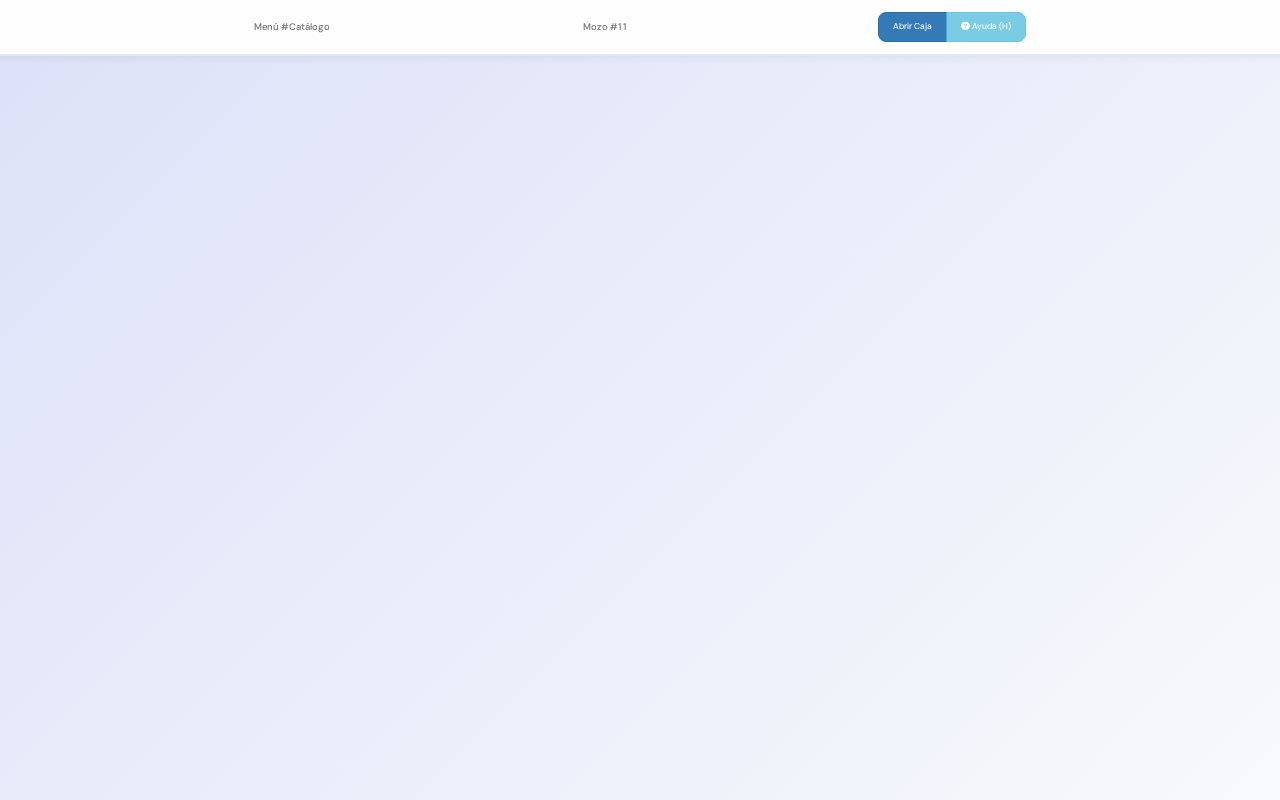
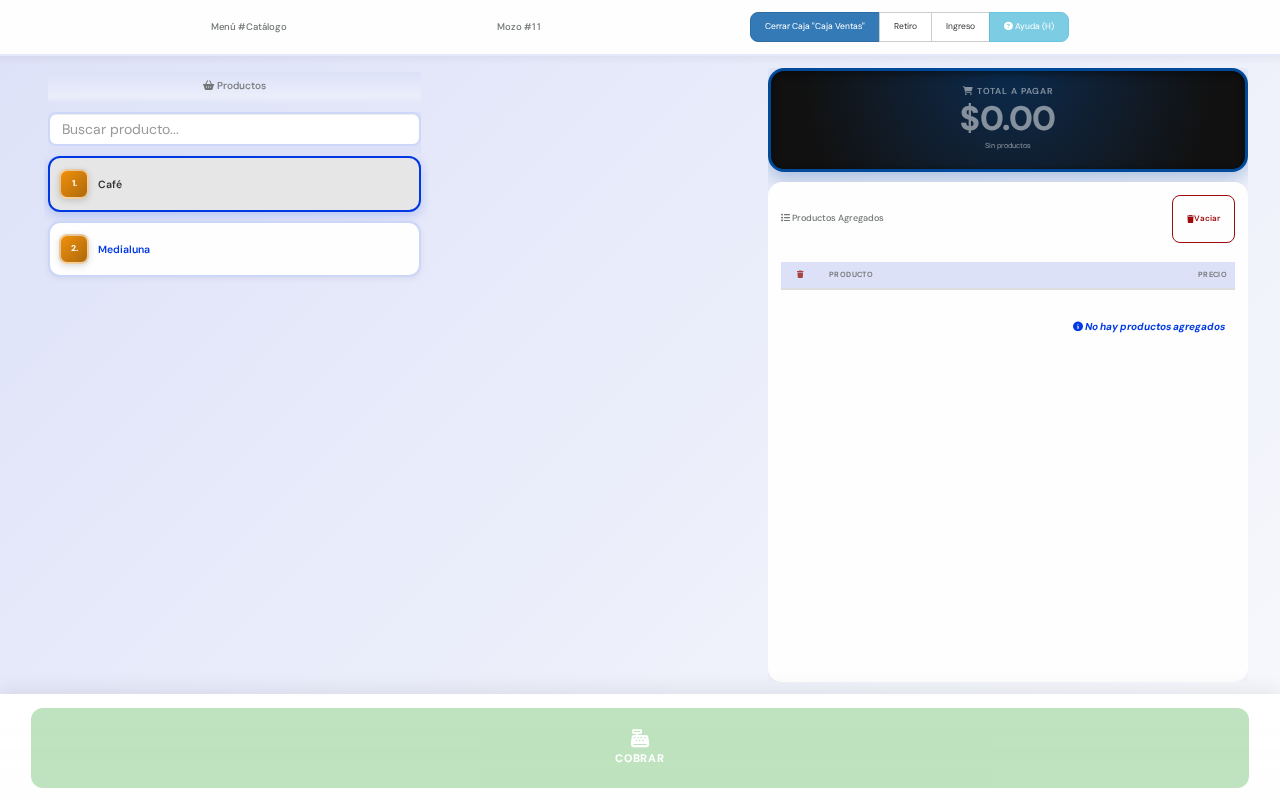
docs(manual): capturas por botón en 22 Cómo Usar la Caja Rápida (Registradora)
Capturas generadas contra dev2 (tenant prueba) con la receta 22: menú lateral,
botones de la caja (solo foto en Cerrar Caja), producto, teclado de importe,
lista, cobro (el medio de pago es solo foto) y formulario de apertura de caja.
El artículo se reescribe paso a paso. Corrige que el producto se quita con la
✕ (no con una papelera) y suma la corrección del precio.

Refs #145

diff --git a/src/routes/user-guide/Manual-Usuario/20-Ventas/22-Caja-Rapida.md b/src/routes/user-guide/Manual-Usuario/20-Ventas/22-Caja-Rapida.md
@@ -2,71 +2,207 @@
 
 <div id="caja-rapida-registradora"></div>
 
+> **¿Dónde está en el sistema?:** Menú principal → **Ventas** → **Caja Rápida**  
+> **¿Quién lo usa?:** Cajeros y personal de mostrador
+
 > 🎯 **¿Para qué sirve esto?**
-> La Caja Rápida es una pantalla tipo registradora pensada para la venta inmediata en mostrador, sin asignación de mesas. Ideal para negocios de paso rápido, take-away o kioscos donde necesitás cobrar al instante.
+> La Caja Rápida funciona como una registradora. Sirve para vender en el mostrador sin abrir una mesa. Es ideal para take-away, kioscos o cafeterías de paso.
 
 ---
 
-## 📍 **Paso 1: Accedé a la Caja Rápida**
+## 📍 **Paso 1: Entrá a la Caja Rápida**
 
-<div id="paso-1-accede-a-la-caja-rapida"></div>
+<div id="paso-1-entra-a-la-caja-rapida"></div>
 
-1. Desde el menú principal, tocá **Ventas** → **Caja Rápida**.
-2. El sistema abrirá la pantalla de registradora con el catálogo de productos.
+![Grupo Ventas del menú lateral](images/manual/20-ventas/22-00a-menu-grupo-ventas.png)
 
-![Pantalla principal de la Caja Rápida con el catálogo de productos y los botones de acción](images/manual/20-ventas/05-registradora-inicio.png)
+1. En el menú de la izquierda, tocá **Ventas**. Se despliegan sus opciones.
+
+![Opción Caja Rápida dentro del grupo Ventas](images/manual/20-ventas/22-00b-menu-opcion-registradora.png)
+
+2. Tocá **Caja Rápida**.
+3. Se abre la pantalla de la registradora.
+
+![Pantalla de la Caja Rápida con los productos a la izquierda y el total a la derecha](images/manual/20-ventas/05-registradora-inicio.png)
 
 En esta pantalla vas a ver:
-- Arriba: el nombre del **Menú** activo (ej: "Menú #Catálogo") y el **Mozo** asignado.
-- El botón **"Abrir Caja"** para iniciar el arqueo si no tenés uno abierto.
-- El botón **"Ayuda"** con notificaciones pendientes.
 
-> 💡 **Consejo útil:** Si la pantalla aparece vacía (sin botones de productos), verificá que el menú asignado a tu usuario tenga productos cargados en **Productos → Menúes**.
+- **Arriba:** el menú de precios que se usa (por ejemplo, *Menú #Catálogo*) y el mozo.
+- **Arriba a la derecha:** los botones de la caja y el botón **Ayuda (H)**.
+- **A la izquierda:** los productos para vender.
+- **A la derecha:** el total a pagar y la lista de lo que vas cargando.
+- **Abajo:** el botón verde **COBRAR**.
 
 ---
 
-## � **Paso 2: Abrí la caja antes de vender**
+## 💰 **Paso 2: Abrí la caja antes de vender**
 
 <div id="paso-2-abri-la-caja-antes-de-vender"></div>
 
-1. Tocá el botón **"Abrir Caja"** arriba a la derecha.
+> ⚠ **Atención:** Si la caja está cerrada, la pantalla **no muestra ningún producto**. Primero abrí la caja.
 
-![Botón Abrir Caja en el encabezado de la registradora](images/manual/20-ventas/33-registradora-boton-abrir-caja.png)
+![Botón Abrir Caja en la parte de arriba de la registradora](images/manual/20-ventas/33-registradora-boton-abrir-caja.png)
 
-2. Elegí la **Caja** a abrir (si tu comercio tiene más de una) y cargá el **Importe Inicial** en efectivo.
+1. Arriba a la derecha, tocá el botón **Abrir Caja**.
+2. Se abre una ventanita para abrir la caja.
 
-![Formulario de Nuevo Arqueo con la caja a abrir y el importe inicial](images/manual/20-ventas/34-registradora-dialogo-abrir-caja.png)
+![Ventanita Nuevo Arqueo con la caja y el importe inicial](images/manual/20-ventas/34-registradora-dialogo-abrir-caja.png)
 
-3. Tocá **"Abrir Arqueo"**. El catálogo de productos aparece recién después de este paso.
+![Casillero Caja para elegir qué caja abrir](images/manual/20-ventas/22-68-campo-caja-id.png)
 
-> ⚠ **Atención:** Mientras no haya un arqueo abierto, la registradora **no muestra ningún producto** — no es que falten productos cargados, es que toda la pantalla de venta queda oculta hasta abrir la caja.
+3. En **Caja**, elegí la caja que vas a usar.
+
+![Casillero Importe inicial](images/manual/20-ventas/22-69-campo-importe-inicial.png)
+
+4. En **Importe inicial**, escribí la plata que hay en el cajón al empezar. Por ejemplo: *$ 20.000*.
+
+![Pantalla Nuevo Arqueo con el botón Abrir Arqueo marcado en rojo](images/manual/20-ventas/22-72-donde-esta-boton-abrir-arqueo.png)
+
+![Botón azul Abrir Arqueo](images/manual/20-ventas/22-73-boton-abrir-arqueo.png)
+
+5. Tocá el botón azul **Abrir Arqueo**.
+6. La caja queda abierta y aparecen los productos.
+
+> 💡 **Consejo útil:** La caja queda abierta hasta que la cierres. No hace falta abrirla en cada venta.
 
 ---
 
-## 🛒 **Paso 3: Seleccioná productos y cargá la venta**
+## 🧰 **Botones de la caja (arriba a la derecha)**
 
-<div id="paso-3-selecciona-productos-y-carga-la-venta"></div>
+<div id="botones-de-la-caja"></div>
 
-1. Tocá sobre el botón del **producto** deseado en la grilla.
-2. Si el producto tiene un precio variable, usá el teclado numérico para ingresar la cantidad o importe.
-3. El producto aparecerá en el listado del carrito a la derecha con su precio.
-4. Repetí para cada producto adicional.
+Con la caja abierta, arriba a la derecha vas a ver estos botones:
 
-> 💡 **Consejo útil:** Si te equivocaste de producto, tocá el ícono de la papelera 🗑 al lado del producto en la lista del carrito para quitarlo.
+![Registradora con el botón Cerrar Caja marcado en rojo](images/manual/20-ventas/22-12-donde-esta-boton-cerrar-caja-s.png)
+
+![Botón azul Cerrar Caja](images/manual/20-ventas/22-13-boton-cerrar-caja-s.png)
+
+- **Cerrar Caja:** se usa al terminar el turno, para contar la plata y cerrar la caja.
+
+> ⚠ **Atención:** Cerrar la caja termina el turno. Después no vas a poder vender hasta abrirla de nuevo.
+
+![Registradora con el botón Retiro marcado en rojo](images/manual/20-ventas/22-14-donde-esta-boton-retiro.png)
+
+![Botón Retiro](images/manual/20-ventas/22-15-boton-retiro.png)
+
+- **Retiro:** anotá cuando sacás plata del cajón. Por ejemplo, para pagarle a un proveedor.
+
+![Registradora con el botón Ingreso marcado en rojo](images/manual/20-ventas/22-16-donde-esta-boton-ingreso.png)
+
+![Botón Ingreso](images/manual/20-ventas/22-17-boton-ingreso.png)
+
+- **Ingreso:** anotá cuando ponés plata en el cajón. Por ejemplo, cambio extra.
+
+![Registradora con el botón Ayuda marcado en rojo](images/manual/20-ventas/22-18-donde-esta-boton-ayuda-h.png)
+
+![Botón celeste Ayuda (H)](images/manual/20-ventas/22-19-boton-ayuda-h.png)
+
+- **Ayuda (H):** abre una guía rápida de la pantalla y los atajos de teclado. También se abre con la tecla **H**.
 
 ---
 
-## 💵 **Paso 4: Cobrá y cerrá la venta**
+## 🛒 **Paso 3: Cargá los productos de la venta**
 
-<div id="paso-4-cobra-y-cerra-la-venta"></div>
+<div id="paso-3-carga-los-productos-de-la-venta"></div>
 
-1. Revisá el **Total a Pagar** en el panel del carrito.
-2. Tocá el botón **"Cobrar"** en la parte inferior.
-3. Seleccioná el medio de pago: **Efectivo**, **Tarjeta de Débito/Crédito**, **Mercado Pago** u otro medio configurado.
-4. Confirmá el cobro. El ticket fiscal se imprimirá automáticamente.
-5. El carrito quedará limpio y listo para la siguiente venta.
+![Casillero Buscar producto arriba de la lista de productos](images/manual/20-ventas/22-20-campo-buscar-producto.png)
 
-> ⚠ **Atención:** Tocar un medio de pago cobra la venta con un solo toque — no hay confirmación intermedia. Revisá el carrito antes de tocarlo.
+1. Si tenés muchos productos, escribí el nombre en **Buscar producto...**. La lista se achica mientras escribís.
+
+![Registradora con el producto Café marcado en rojo](images/manual/20-ventas/22-21-donde-esta-boton-producto.png)
+
+![Botón del producto Café](images/manual/20-ventas/06-registradora-boton-producto.png)
+
+2. Tocá el producto. Por ejemplo, **Café**.
+3. En el medio aparece un teclado con números.
+
+![Teclado numérico con el importe del Café escrito](images/manual/20-ventas/22-74-teclado-importe.png)
+
+![Recuadro Importe con el precio escrito](images/manual/20-ventas/22-25-campo-0-00.png)
+
+4. Escribí el importe con los números del teclado. Por ejemplo: **1**, **2**, **0**, **0** para *$ 1.200*.
+
+![Teclado con el botón de la flecha marcado en rojo](images/manual/20-ventas/22-48-donde-esta-boton-borrar-ultimo.png)
+
+![Botón con la flecha para borrar el último número](images/manual/20-ventas/22-49-boton-borrar-ultimo.png)
+
+- Si te equivocaste en un número, tocá la **flecha ←**. Borra el último número.
+
+![Teclado con el botón C marcado en rojo](images/manual/20-ventas/22-50-donde-esta-boton-c.png)
+
+![Botón C para borrar todo el importe](images/manual/20-ventas/22-51-boton-c.png)
+
+- Para empezar de nuevo, tocá **C**. Borra todo el importe.
+
+![Teclado con el botón Agregar marcado en rojo](images/manual/20-ventas/22-52-donde-esta-boton-agregar.png)
+
+![Botón verde Agregar](images/manual/20-ventas/22-53-boton-agregar.png)
+
+5. Tocá el botón verde **AGREGAR**.
+6. El producto aparece en la lista de la derecha. El **Total a pagar** se actualiza.
+
+![Registradora con el Café en la lista y el total a pagar de $1200](images/manual/20-ventas/29-registradora-carrito.png)
+
+7. Repetí los pasos para cada producto de la venta.
+
+---
+
+## ✏ **Paso 4: Corregí la lista si te equivocaste**
+
+<div id="paso-4-corregi-la-lista-si-te-equivocaste"></div>
+
+![Botón gris con una cruz para quitar el producto](images/manual/20-ventas/22-75-boton-quitar-producto.png)
+
+- Para **quitar un producto**, tocá la **✕** gris a la izquierda (o cualquier parte de la fila, menos el precio).
+- Aparece un aviso con **Deshacer**. Tenés 5 segundos por si lo borraste sin querer.
+
+![Precio del producto con el lápiz para corregirlo](images/manual/20-ventas/22-77-precio-editable.png)
+
+- Para **cambiar el precio**, tocá el precio (el que tiene el lápiz ✏). Escribí el importe correcto.
+
+![Registradora con el botón Vaciar marcado en rojo](images/manual/20-ventas/22-54-donde-esta-boton-vaciar.png)
+
+![Botón rojo Vaciar](images/manual/20-ventas/22-55-boton-vaciar.png)
+
+- Para **borrar toda la lista**, tocá **Vaciar**. El sistema te pide que confirmes.
+
+---
+
+## 💵 **Paso 5: Cobrá la venta**
+
+<div id="paso-5-cobra-la-venta"></div>
+
+![Registradora con el botón Cobrar marcado en rojo abajo de todo](images/manual/20-ventas/22-61-donde-esta-boton-cobrar.png)
+
+![Botón verde Cobrar](images/manual/20-ventas/30-registradora-boton-cobrar.png)
+
+1. Revisá el **Total a pagar**.
+2. Tocá el botón verde **COBRAR**, abajo de todo.
+3. Se abre la pantalla de cobro con los medios de pago.
+
+![Pantalla de cobro con los medios de pago](images/manual/20-ventas/31-registradora-pantalla-pago.png)
+
+> ⚠ **Atención:** Tocar un medio de pago **cobra la venta en ese momento**. No hay un paso para confirmar. Revisá la lista antes de tocarlo.
+
+![Botón verde de un medio de pago](images/manual/20-ventas/32-registradora-boton-medio-pago.png)
+
+4. Tocá el medio de pago que usa el cliente. Por ejemplo: **Efectivo**, **Tarjeta Débito** o **Mercado Pago**.
+5. La venta queda cobrada. Si hay impresora, sale el ticket.
+6. La lista queda vacía, lista para la próxima venta.
+
+![Pantalla de cobro con el botón Más medios de pago marcado en rojo](images/manual/20-ventas/22-59-donde-esta-boton-mas-medios-de-pago.png)
+
+![Botón Más medios de pago](images/manual/20-ventas/22-60-boton-mas-medios-de-pago.png)
+
+- Si no ves el medio de pago, tocá **Más medios de pago**. Aparecen los demás.
+
+![Pantalla de cobro con todos los medios de pago a la vista](images/manual/20-ventas/22-76-pantalla-mas-medios-de-pago.png)
+
+![Pantalla de cobro con el botón Volver marcado en rojo](images/manual/20-ventas/22-56-donde-esta-boton-volver.png)
+
+![Botón Volver](images/manual/20-ventas/22-57-boton-volver.png)
+
+- Si todavía no querés cobrar, tocá **← Volver**. Volvés a la lista sin cobrar nada.
 
 ---
 
@@ -76,7 +212,9 @@ En esta pantalla vas a ver:
 
 | Problema | Causa más frecuente | Solución recomendada |
 |---|---|---|
-| **El botón Cobrar aparece desactivado** | No agregaste ningún producto al carrito. | Seleccioná al menos un producto antes de cobrar. |
-| **No aparecen productos en la pantalla** | El menú asignado a tu usuario no tiene productos cargados. | Verificá la configuración en **Productos → Menúes** o pedile al administrador que asigne un menú a tu usuario. |
-| **El ticket no se imprime** | La impresora fiscal está desconectada o sin papel. | Revisá la conexión de la impresora y el estado del papel. |
-| **Te equivocaste de producto** | Se tocó un botón incorrecto. | Tocá el ícono de la papelera 🗑 al lado del producto en la lista para quitarlo antes de cobrar. |
+| **No aparecen productos en la pantalla** | La caja está cerrada. | Abrí la caja (ver [Paso 2](#paso-2-abri-la-caja-antes-de-vender)). |
+| **Sigue sin haber productos con la caja abierta** | El menú no tiene productos sueltos, o están todos dentro de categorías. | Pedile al encargado que revise el menú en **Productos → Menú**. |
+| **El botón Cobrar está gris** | No agregaste ningún producto a la lista. | Agregá al menos un producto antes de cobrar. |
+| **El ticket no se imprime** | La impresora está apagada, desconectada o sin papel. | Revisá la impresora y que Fiscalberry esté abierto (ver [Gestión de Impresoras](/user-guide/impresoras)). |
+| **Te equivocaste de producto** | Tocaste otro producto. | Tocá la **✕** al lado del producto para quitarlo antes de cobrar. Si lo quitaste sin querer, tocá **Deshacer**. |
+| **Cobraste con el medio de pago equivocado** | Tocaste otro medio de pago. | Avisale al encargado: se corrige desde **Finanzas**. |
